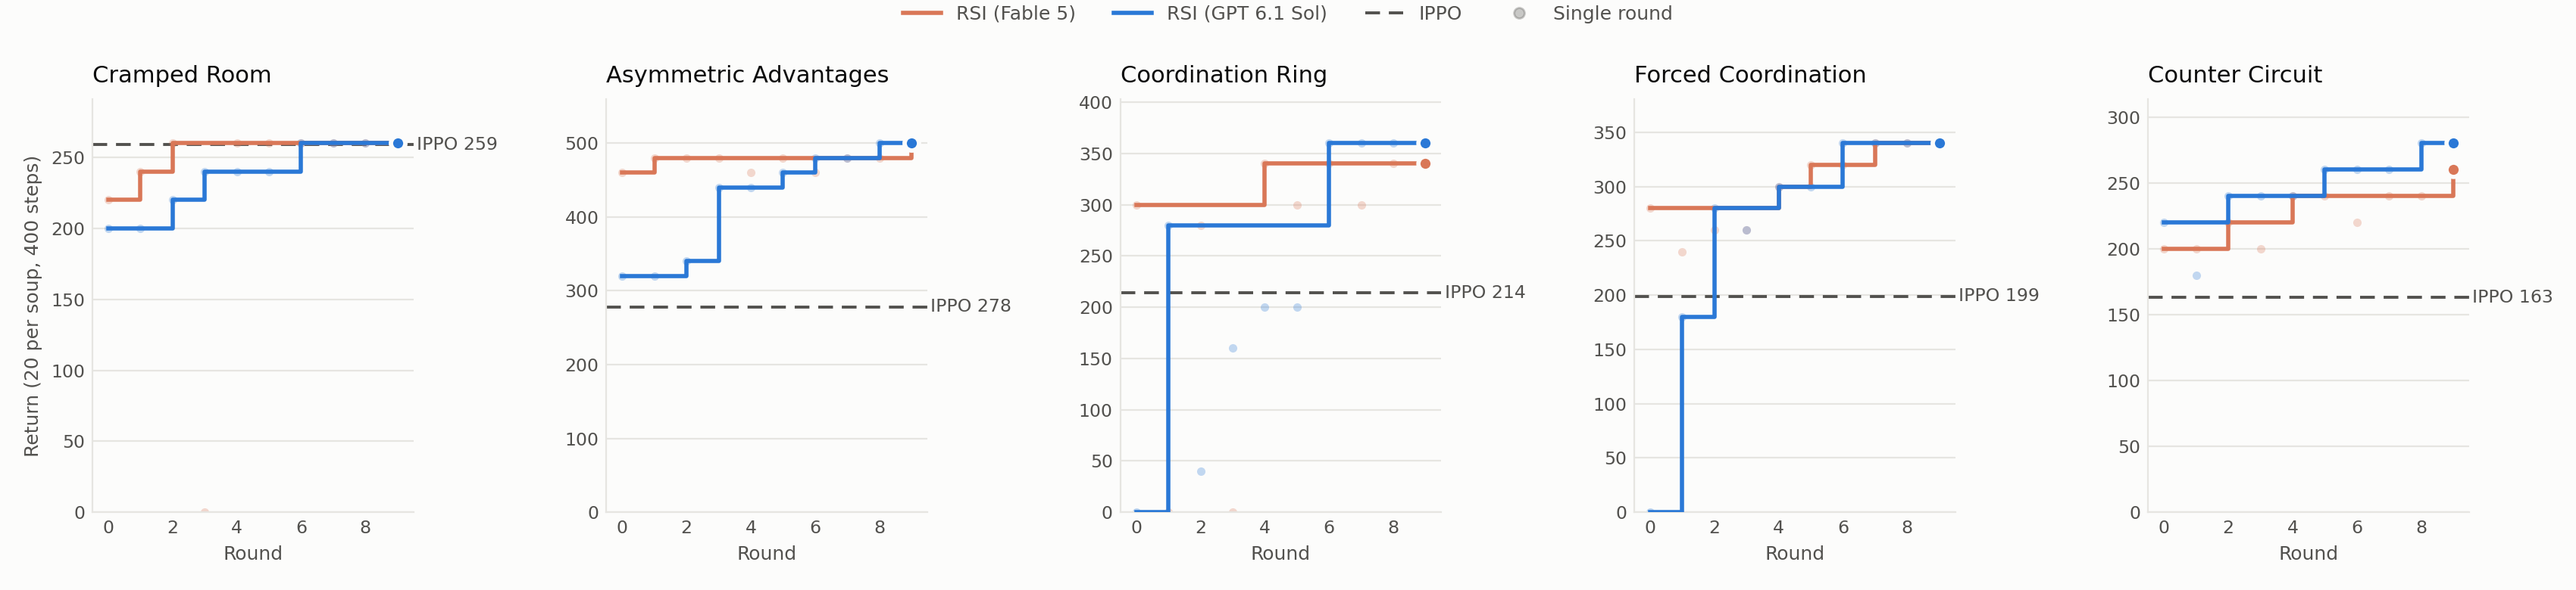
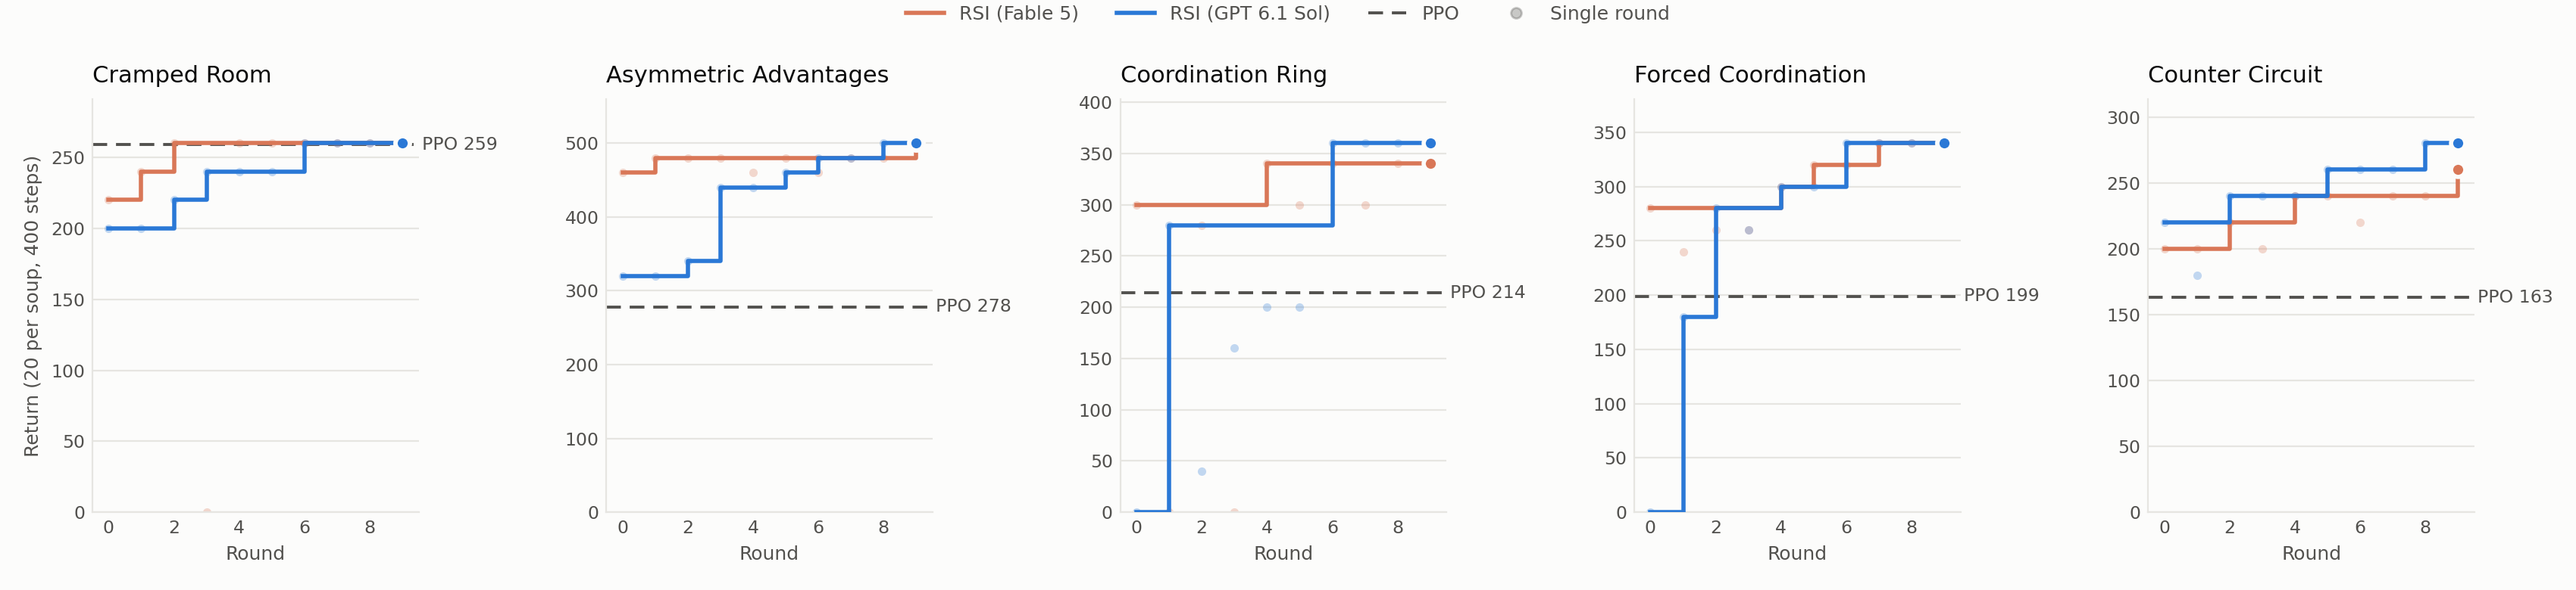
Overcooked baseline labeled PPO again

diff --git a/_posts/2026-10-31-self-improving-code-as-policies.md b/_posts/2026-10-31-self-improving-code-as-policies.md
@@ -33,7 +33,7 @@ We tested this on two benchmarks. In [Overcooked](https://github.com/HumanCompat
   <figcaption style="margin-top: .65rem; color: #65717d; font-size: .88rem; line-height: 1.5;"><strong>Figure 1.</strong> Example tasks. Left: Overcooked Coordination Ring, where two chefs execute a joint schedule. Right: Google Research Football Counterattack Hard, where the team controller seeks an early shot. Both clips are selected successful rollouts of LLM-written policies.</figcaption>
 </figure>
 
-The loop worked strikingly well in Overcooked. After ten rounds, Fable 5 and GPT 6.1 Sol both beat neural policies trained with IPPO self-play on all five layouts. Their best policies are joint schedules found by search programs the models wrote for themselves. Google Research Football is a soccer simulator where players coordinate against built-in opponents while controlling their movement, first touches, and shot timing under stochastic dynamics. There, the same loop improved its policies but remained below the reported IPPO results on all seven scenarios and MAPPO on six.
+The loop worked strikingly well in Overcooked. After ten rounds, Fable 5 and GPT 6.1 Sol both beat neural policies trained with PPO self-play on all five layouts. Their best policies are joint schedules found by search programs the models wrote for themselves. Google Research Football is a soccer simulator where players coordinate against built-in opponents while controlling their movement, first touches, and shot timing under stochastic dynamics. There, the same loop improved its policies but remained below the reported IPPO results on all seven scenarios and MAPPO on six.
 
 The gap comes from the feedback each game returns. In the kitchen, a failed rollout points to a specific collision or idle step, so the loop can treat coordination like a math problem and search for a joint schedule. In football, a single evaluation rarely says what went wrong. A lost episode could come from the team strategy, from low-level control of one player, or from a random bounce, and the loop spends most of its effort separating real improvements from lucky evaluations. When the evaluator leaks information, it learns to exploit that instead. The loop is strong at coordination it can reason out on paper and still weak at coordination that lives in physical movement, where low-level control must absorb large amounts of randomness. The rest of this post shows how each of these happens.
 
@@ -59,15 +59,15 @@ We use two existing benchmarks with different demands on coordination, [Overcook
 
 Each Overcooked run has a budget of ten rounds, numbered 0 to 9. Overcooked is deterministic, so training and evaluation both use seed 0. In each football round, the agent runs its policy on a fresh batch of 25 to 100 random training seeds, choosing the batch size itself, and no seed is reused. Reported football scores come from 100 fresh evaluation seeds, or 300 for Three vs One. The football campaigns have varying stopping rules and lengths.
 
-Official evaluation rounds are one part of the computation. The agent can run offline simulations and search between them, and these become central to the Overcooked results. We compare the self-evolved controllers with reported reinforcement-learning results: IPPO self-play from [Gessler et al. (2025)](https://arxiv.org/abs/2503.17821) on Overcooked, and IPPO and MAPPO from [Song et al. (2023)](https://arxiv.org/abs/2309.12951) on Google Research Football. Our experiment measures team performance from one campaign per model and task, with access to joint observations and control of the team.
+Official evaluation rounds are one part of the computation. The agent can run offline simulations and search between them, and these become central to the Overcooked results. We compare the self-evolved controllers with reported reinforcement-learning results: PPO self-play from [Gessler et al. (2025)](https://arxiv.org/abs/2503.17821) on Overcooked, and IPPO and MAPPO from [Song et al. (2023)](https://arxiv.org/abs/2309.12951) on Google Research Football. Our experiment measures team performance from one campaign per model and task, with access to joint observations and control of the team.
 
 ## Results: strong schedules in Overcooked, a larger gap in football
 
 ### Overcooked: two models arrive at nearly the same scores
 
-Both models finish above the published IPPO self-play mean on all five layouts. The two models agree at 260, 500, and 340 on Cramped Room, Asymmetric Advantages, and Forced Coordination. GPT finishes one soup ahead on Coordination Ring and Counter Circuit.
+Both models finish above the published PPO self-play mean on all five layouts. The two models agree at 260, 500, and 340 on Cramped Room, Asymmetric Advantages, and Forced Coordination. GPT finishes one soup ahead on Coordination Ring and Counter Circuit.
 
-| Layout | IPPO self-play | Fable 5 | GPT 6.1 Sol |
+| Layout | PPO self-play | Fable 5 | GPT 6.1 Sol |
 | --- | ---: | ---: | ---: |
 | Cramped Room | 259 | **260** | **260** |
 | Asymmetric Advantages | 278 | **500** | **500** |
@@ -75,11 +75,11 @@ Both models finish above the published IPPO self-play mean on all five layouts. 
 | Forced Coordination | 199 | **340** | **340** |
 | Counter Circuit | 163 | 260 | **280** |
 
-IPPO values are the standard self-play means in [Gessler et al., Table 1](https://arxiv.org/html/2503.17821v1#S5.T1), where agents are trained with independent PPO on classic Overcooked. The code-policy columns report each campaign's best evaluated score within rounds 0–9.
+PPO values are the standard self-play means in [Gessler et al., Table 1](https://arxiv.org/html/2503.17821v1#S5.T1), measured on classic Overcooked. The code-policy columns report each campaign's best evaluated score within rounds 0–9.
 
 <figure style="margin: 2rem 0; max-width: 100%;">
-  <img src="{{ '/assets/img/research/overcooked-rsi-ten-rounds.png' | relative_url }}?v=20261031-ippo" alt="Best reward across ten rounds on five Overcooked layouts. The models tie on three layouts; GPT finishes one delivery ahead on the other two." style="display: block; width: 100%; height: auto;">
-  <figcaption style="margin-top: .65rem; color: #65717d; font-size: .88rem; line-height: 1.5;"><strong>Figure 3.</strong> Overcooked over ten rounds. Solid lines show the best score so far; faint dots show individual evaluations. Dashed lines show the IPPO reference values.</figcaption>
+  <img src="{{ '/assets/img/research/overcooked-rsi-ten-rounds.png' | relative_url }}?v=20261031-ppo" alt="Best reward across ten rounds on five Overcooked layouts. The models tie on three layouts; GPT finishes one delivery ahead on the other two." style="display: block; width: 100%; height: auto;">
+  <figcaption style="margin-top: .65rem; color: #65717d; font-size: .88rem; line-height: 1.5;"><strong>Figure 3.</strong> Overcooked over ten rounds. Solid lines show the best score so far; faint dots show individual evaluations. Dashed lines show the PPO reference values.</figcaption>
 </figure>
 
 The starting policies differ much more than the final ones. GPT begins with zero reward on two layouts, then recovers to match Fable on three layouts and finish one soup ahead on two. The trajectories below explain what changes between those first rules and the final schedules.
@@ -211,4 +211,4 @@ Thanks to Jianing Ye for helpful discussions on this project.
 3. Kurach, K. et al. [Google Research Football: A Novel Reinforcement Learning Environment](https://research.google/pubs/google-research-football-a-novel-reinforcement-learning-environment/). AAAI, 2020.
 4. Yu, C. et al. [The Surprising Effectiveness of PPO in Cooperative Multi Agent Games](https://papers.neurips.cc/paper_files/paper/2022/hash/9c1535a02f0ce079433344e14d910597-Abstract-Datasets_and_Benchmarks.html). NeurIPS, 2022.
 5. Song, Y. et al. [Boosting Studies of Multi-Agent Reinforcement Learning on Google Research Football Environment: the Past, Present, and Future](https://arxiv.org/abs/2309.12951). arXiv, 2023. Football references: Table 3.
-6. Gessler, T. et al. [OvercookedV2: Rethinking Overcooked for Zero-Shot Coordination](https://arxiv.org/abs/2503.17821). ICLR, 2025. Classic Overcooked IPPO references: Table 1, standard self-play.
+6. Gessler, T. et al. [OvercookedV2: Rethinking Overcooked for Zero-Shot Coordination](https://arxiv.org/abs/2503.17821). ICLR, 2025. Classic Overcooked PPO references: Table 1, standard self-play.
